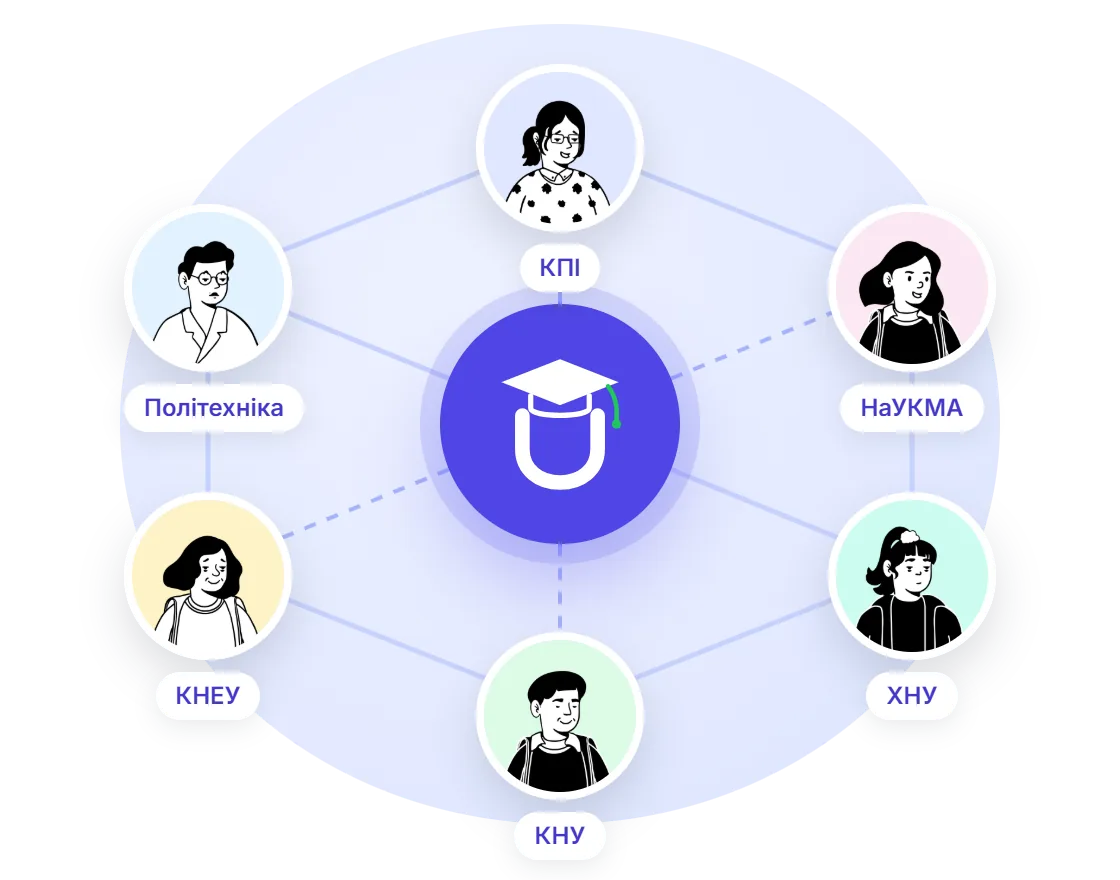
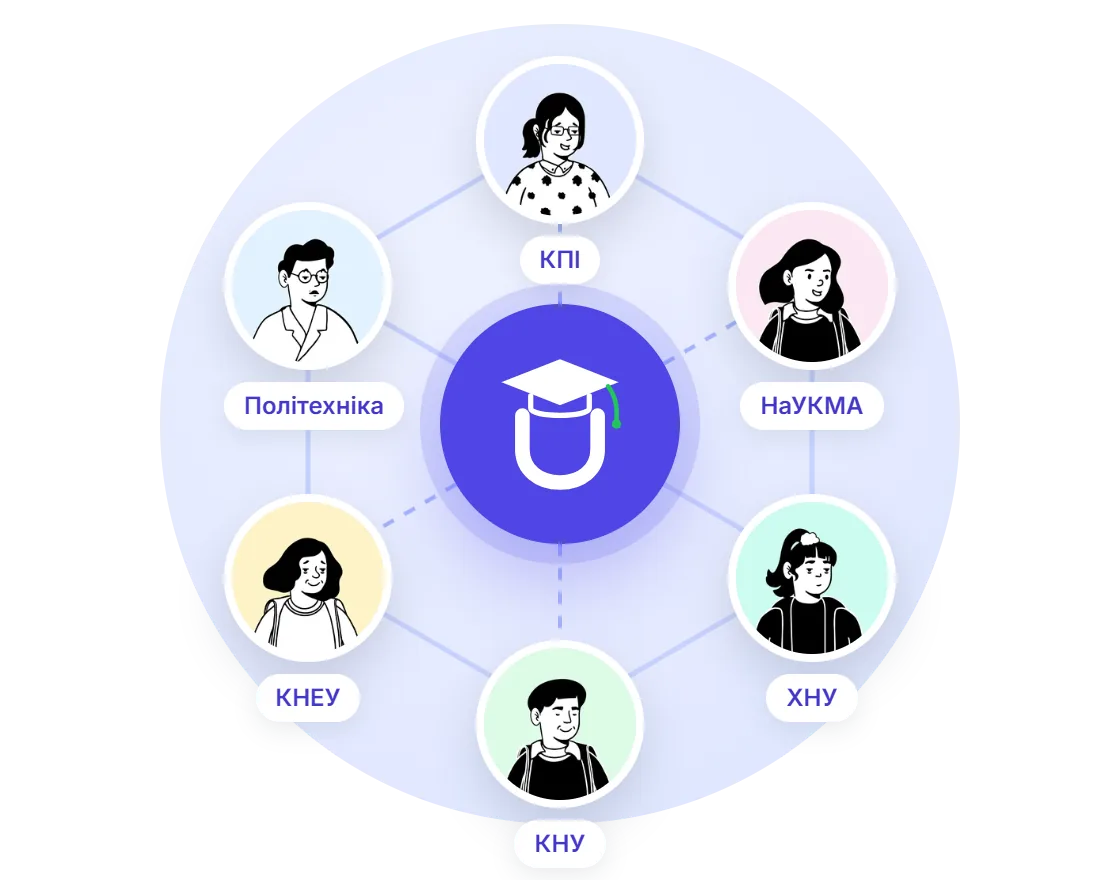
fix: допрацьовано фільтри каталогу й ілюстрацію about
Кнопка «Скинути» у фільтрах отримала рамку, як «Вхід» у шапці.
Підпис «Лише верифіковані» вміщується в один рядок, прапорець стоїть на одній лінії з іншими.
Тло ілюстрації about тепер коло, вузли розміщено правильним шестикутником.

diff --git a/tutors.html b/tutors.html
@@ -117,7 +117,7 @@
             <label class="check"><input type="checkbox" name="format" value="online"> Онлайн</label>
             <label class="check"><input type="checkbox" name="format" value="offline"> Офлайн</label>
           </fieldset>
-          <label class="check check--highlight"><input type="checkbox" name="verified" value="1"> Лише верифіковані студенти</label>
+          <label class="check check--highlight"><input type="checkbox" name="verified" value="1"> Лише верифіковані</label>
           <div class="filter-actions">
             <button class="btn btn-primary" type="submit">Застосувати</button>
             <button class="btn btn-ghost" type="reset">Скинути</button>

diff --git a/css/components.css b/css/components.css
@@ -102,7 +102,8 @@
   color: var(--color-primary);
 }
 
-.nav-actions .btn-ghost {
+.nav-actions .btn-ghost,
+.filter-actions .btn-ghost {
   border-color: var(--color-border);
 }
 
@@ -111,7 +112,8 @@
   color: var(--color-text);
 }
 
-.nav-actions .btn-ghost:hover {
+.nav-actions .btn-ghost:hover,
+.filter-actions .btn-ghost:hover {
   border-color: var(--color-primary-light);
 }
 

diff --git a/css/pages.css b/css/pages.css
@@ -179,7 +179,9 @@
   font-weight: 500;
 }
 
+/* тло виходить за межі колонки на ширину відступу, а прапорець стоїть на одній лінії з іншими */
 .check--highlight {
+  margin-inline: -0.75rem;
   margin-bottom: 1.25rem;
   padding: 0.75rem;
   border-radius: var(--radius-sm);
